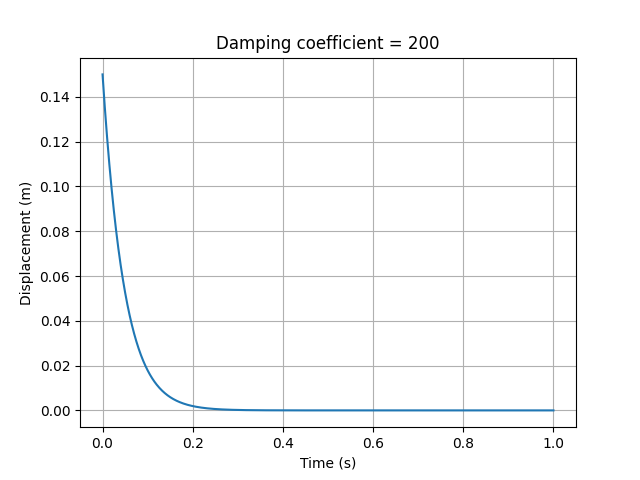
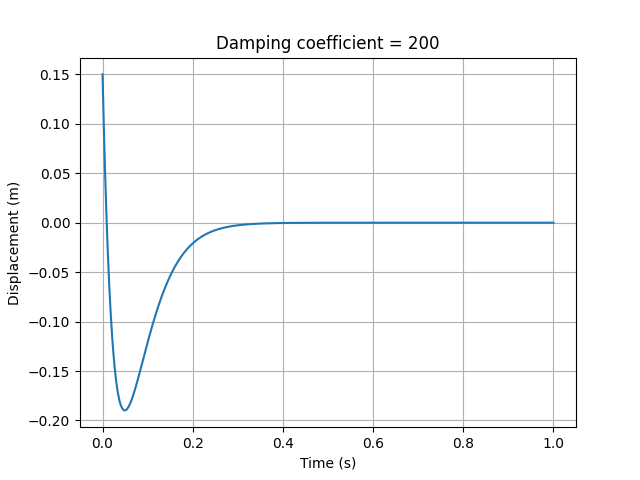
question1 edit

diff --git a/question1.py b/question1.py
@@ -19,7 +19,7 @@ def sol_eqn(x0,v0,t,m,k,c):
         return np.exp(roots[0].real*t)*(const[0]*np.cos(roots[0].imag*t)+const[1]*np.sin(roots[0].imag*t))#x(t)=e^(lambda1t)(C1*cos(omega1t)+C2*sin(omega1t))
     elif roots[0].imag == 0 and roots[1].imag == 0: 
         if roots[0].real == roots[1].real:#single root case Critically damped
-            A=np.array([[1,0],[roots[0],roots[0]+1]])
+            A=np.array([[1,0],[roots[0],1]])
             B=np.array([x0,v0])
             const=np.linalg.inv(A).dot(B) #finding the constants of the solution
             return const[0]*np.exp(roots[0].real*t)+const[1]*t*np.exp(roots[0].real*t)#x(t)=e^(lambda1t)(C1+C2t)
